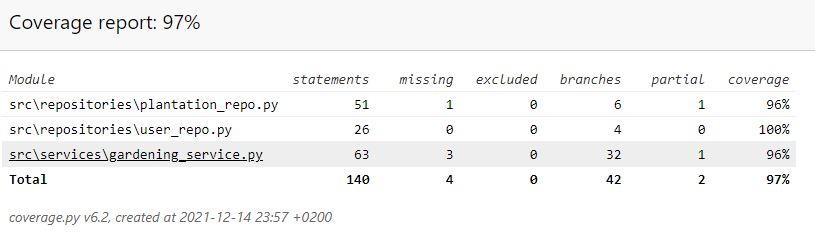
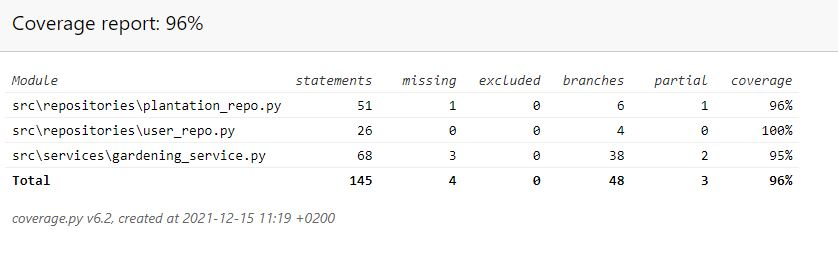
check yield date

diff --git a/puutarhasovellus/src/tests/gardening_service_test.py b/puutarhasovellus/src/tests/gardening_service_test.py
@@ -11,6 +11,7 @@ from services.gardening_service import (
     PlantNameTooShortError,
     NoPlantingAmountError,
     YieldDateOrYieldAmountError,
+    YieldDateEarlyError
 )
 
 
@@ -157,6 +158,25 @@ class TestGardeningService(unittest.TestCase):
         )
         self.assertRaises(
             YieldDateOrYieldAmountError,
+            self._gardening_service.update_plantation,
+            plantation,
+        )
+
+    def test_cant_add_yield_date_that_is_before_yield_date(self):
+        date = datetime.datetime.now()
+        days = datetime.timedelta(5)
+        date2 = date - days
+        plantation = Plantation(
+            "Exists",
+            "Reed",
+            date,
+            "33kg",
+            "some info",
+            date2,
+            "333kg",
+        )
+        self.assertRaises(
+            YieldDateEarlyError,
             self._gardening_service.update_plantation,
             plantation,
         )

diff --git a/puutarhasovellus/src/services/gardening_service.py b/puutarhasovellus/src/services/gardening_service.py
@@ -28,6 +28,9 @@ class NoPlantingAmountError(Exception):
 class YieldDateOrYieldAmountError(Exception):
     pass
 
+class YieldDateEarlyError(Exception):
+    pass
+
 
 class GardeningService:
     """A class that handles the logic of the gardening application."""
@@ -147,6 +150,9 @@ class GardeningService:
             and not just_yield_date
         ):
             raise YieldDateOrYieldAmountError("Both yield date and amount needed.")
+        if plantation.get_yield_date():
+            if plantation.get_yield_date() < plantation.get_planting_date():
+                raise YieldDateEarlyError("The yield date should be after planting.")
         self._plantation_repo.update(plantation)
 
     def delete_plantation(self, plantation):

diff --git a/puutarhasovellus/dokumentaatio/testaus.md b/puutarhasovellus/dokumentaatio/testaus.md
@@ -14,7 +14,7 @@ The repositories `UserRepository` and `PlantationRepository` are tested using th
 
 ### Test coverage
 
-The user interface is not tested, and the file functions.functions is also left outside the calculation of test-coverage, as it mostly consist of a helper function for building some of the views in the user interface. The test coverage is 97%. 
+The user interface is not tested, and the file functions.functions is also left outside the calculation of test-coverage, as it mostly consist of a helper function for building some of the views in the user interface. The test coverage is 96%. 
 
 ![Testcoverage](coverage.JPG)
 
